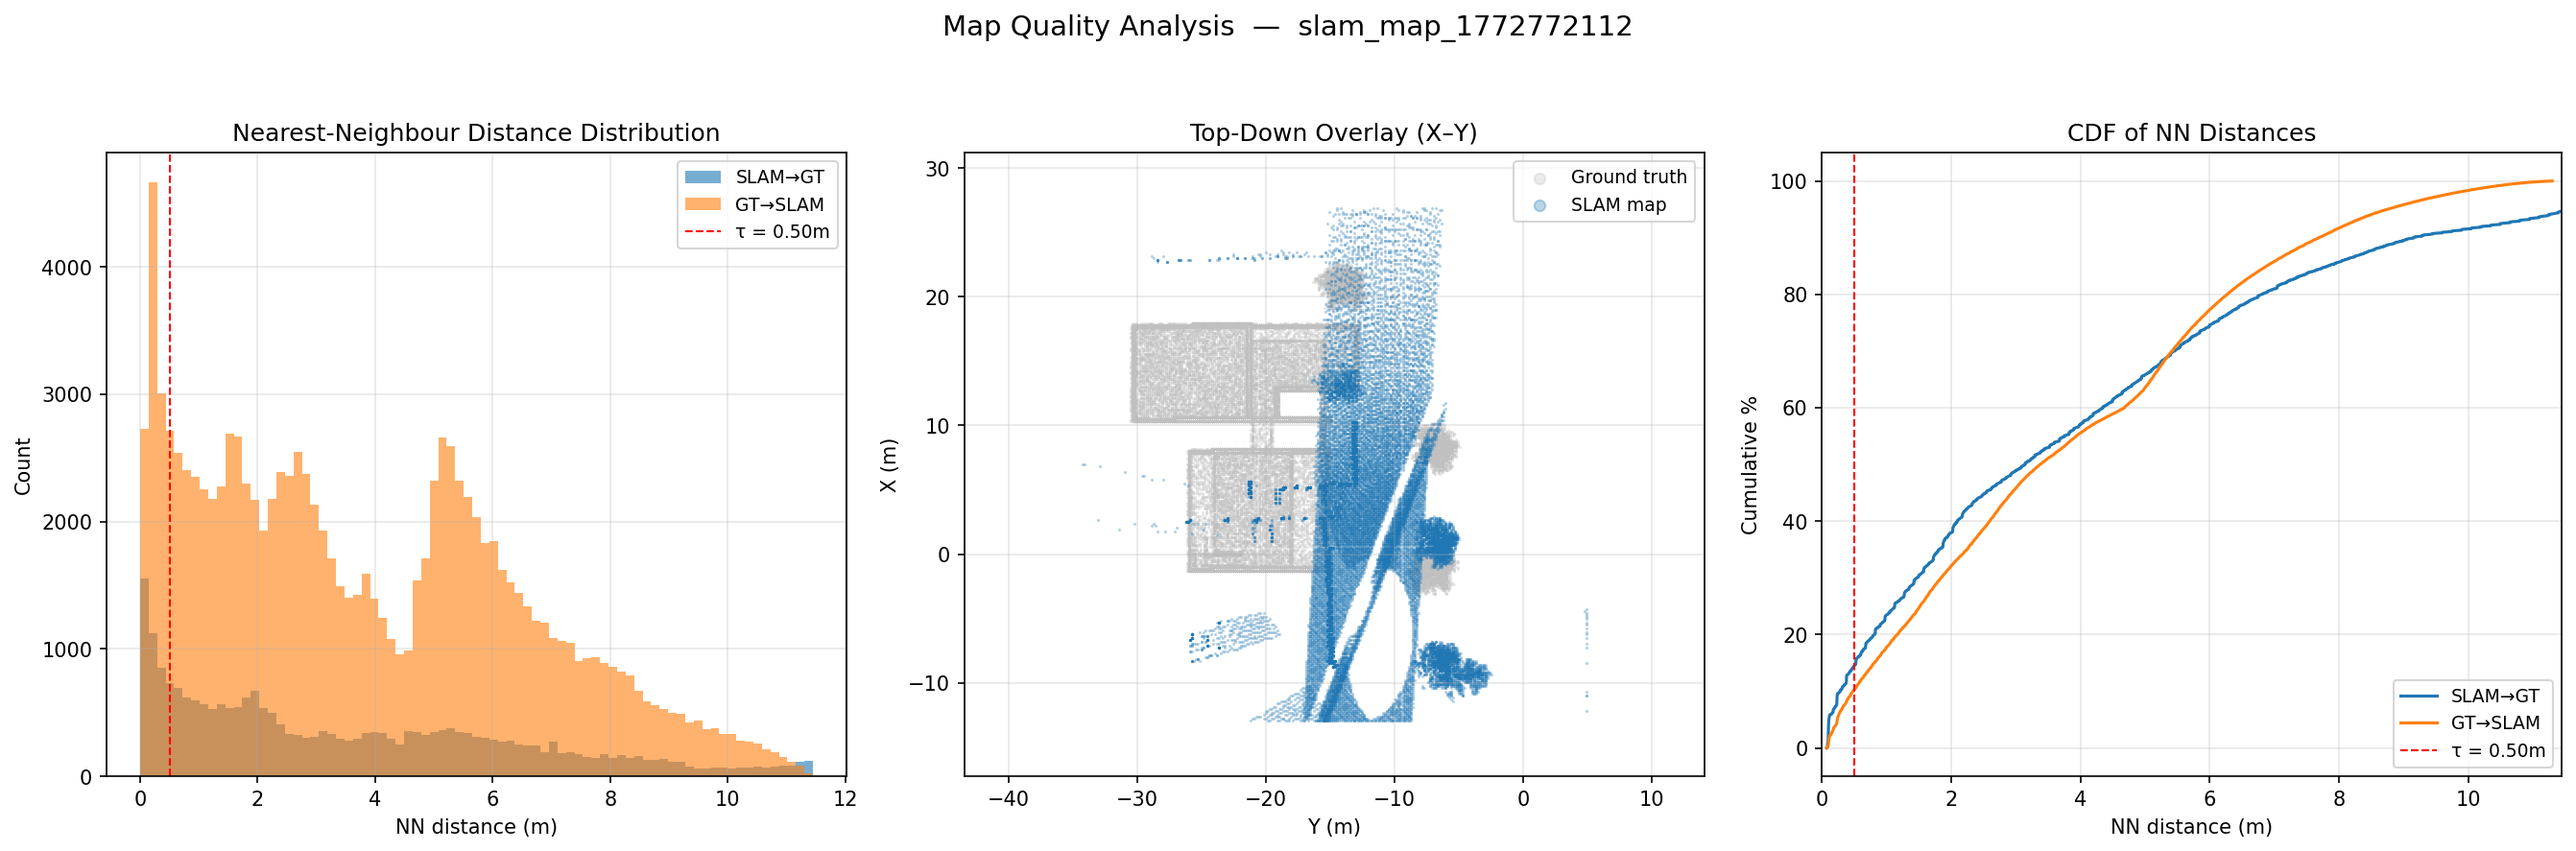
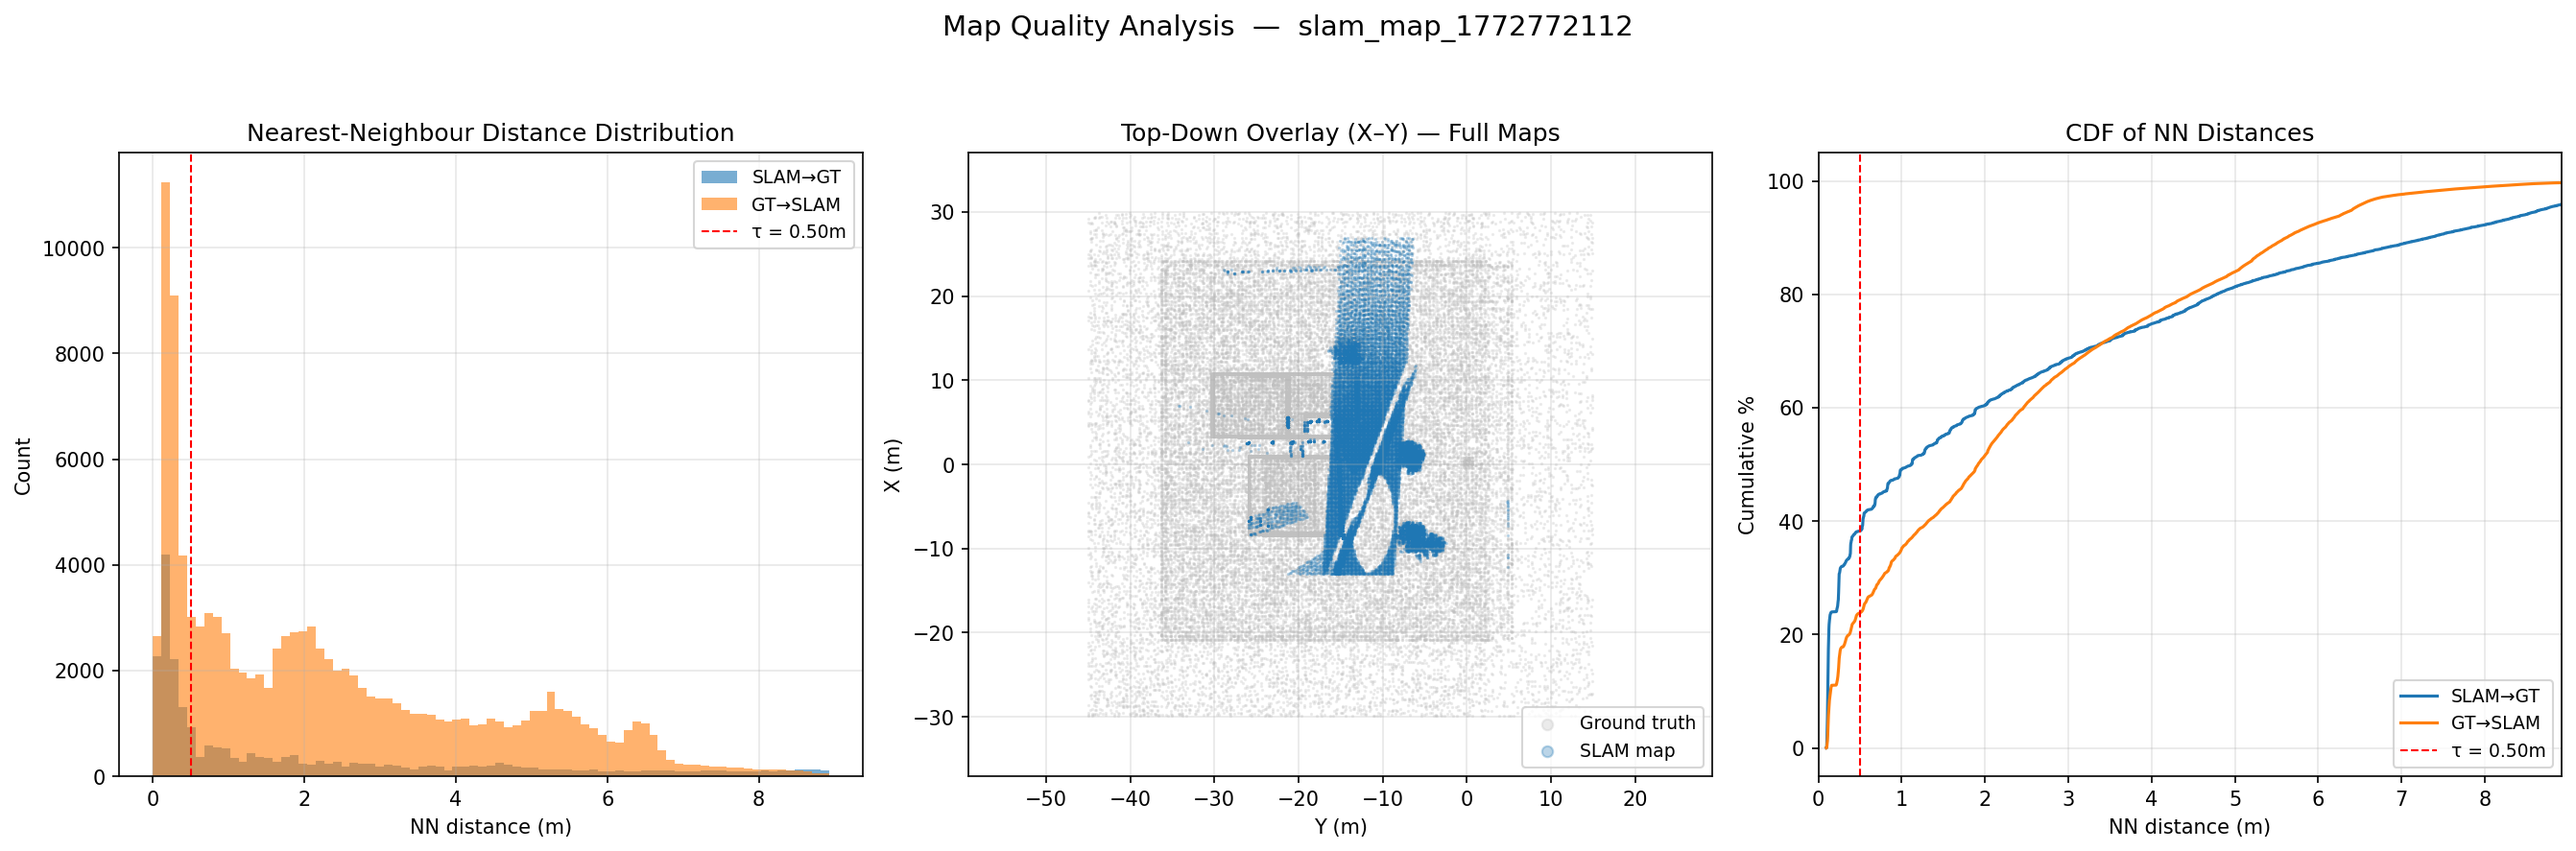
Fixed issue with comparing final mapping to ground truth

diff --git a/airsimTesting/mapAnalysis.py b/airsimTesting/mapAnalysis.py
@@ -81,6 +81,10 @@ OUT_DIR = None
 # Set True to skip matplotlib plots (text + CSV output only).
 NO_PLOT = False
 
+# Set True to open separate Open3D windows for GT and each SLAM map
+# with coordinate axes displayed, useful for diagnosing orientation issues.
+SHOW_INDIVIDUAL_MAPS = False
+
 
 # ══════════════════════════════════════════════════════════════════════════════
 # Helpers
@@ -235,14 +239,25 @@ def print_metrics(m: dict, label: str = "") -> None:
 # ══════════════════════════════════════════════════════════════════════════════
 
 def plot_single(m: dict, slam_pts: np.ndarray, gt_pts: np.ndarray,
-                label: str = "", save_path: str | None = None) -> None:
-    """Three-panel figure for a single SLAM-vs-GT comparison."""
+                label: str = "", save_path: str | None = None,
+                slam_pts_full: np.ndarray | None = None,
+                gt_pts_full: np.ndarray | None = None) -> None:
+    """Three-panel figure for a single SLAM-vs-GT comparison.
+
+    If *slam_pts_full* / *gt_pts_full* are provided they are used for
+    the top-down overlay so the viewer can see the full maps for spatial
+    orientation.  Metrics are still computed on the clipped clouds.
+    """
     import matplotlib
     matplotlib.use("TkAgg")
     import matplotlib.pyplot as plt
 
     d_s2g = m["_d_s2g"]
     d_g2s = m["_d_g2s"]
+
+    # Use the full clouds for display if available
+    slam_display = slam_pts_full if slam_pts_full is not None else slam_pts
+    gt_display   = gt_pts_full   if gt_pts_full   is not None else gt_pts
 
     fig, axes = plt.subplots(1, 3, figsize=(18, 6))
     fig.suptitle(f"Map Quality Analysis{f'  —  {label}' if label else ''}",
@@ -261,20 +276,20 @@ def plot_single(m: dict, slam_pts: np.ndarray, gt_pts: np.ndarray,
     ax.legend(fontsize=9)
     ax.grid(True, alpha=0.3)
 
-    # ── (b) Top-down XY overlay ───────────────────────────────────────
+    # ── (b) Top-down XY overlay (full maps for orientation) ───────────
     ax = axes[1]
     # Subsample for plotting speed
     max_draw = 50_000
-    if len(gt_pts) > max_draw:
-        idx = np.random.choice(len(gt_pts), max_draw, replace=False)
-        gt_draw = gt_pts[idx]
+    if len(gt_display) > max_draw:
+        idx = np.random.choice(len(gt_display), max_draw, replace=False)
+        gt_draw = gt_display[idx]
     else:
-        gt_draw = gt_pts
-    if len(slam_pts) > max_draw:
-        idx = np.random.choice(len(slam_pts), max_draw, replace=False)
-        sl_draw = slam_pts[idx]
+        gt_draw = gt_display
+    if len(slam_display) > max_draw:
+        idx = np.random.choice(len(slam_display), max_draw, replace=False)
+        sl_draw = slam_display[idx]
     else:
-        sl_draw = slam_pts
+        sl_draw = slam_display
 
     ax.scatter(gt_draw[:, 1], gt_draw[:, 0], c="#c0c0c0", s=0.3,
                alpha=0.3, rasterized=True, label="Ground truth")
@@ -282,7 +297,7 @@ def plot_single(m: dict, slam_pts: np.ndarray, gt_pts: np.ndarray,
                alpha=0.3, rasterized=True, label="SLAM map")
     ax.set_xlabel("Y (m)")
     ax.set_ylabel("X (m)")
-    ax.set_title("Top-Down Overlay (X–Y)")
+    ax.set_title("Top-Down Overlay (X–Y) — Full Maps")
     ax.set_aspect("equal", adjustable="datalim")
     ax.legend(fontsize=9, markerscale=10)
     ax.grid(True, alpha=0.3)
@@ -381,8 +396,14 @@ def plot_comparison(results: list[tuple[str, dict]],
 
 def plot_3d_overlay(slam_pts: np.ndarray, gt_pts: np.ndarray,
                     label: str = "",
-                    max_draw: int = 500_000) -> None:
+                    max_draw: int = 500_000,
+                    slam_pts_full: np.ndarray | None = None,
+                    gt_pts_full: np.ndarray | None = None) -> None:
     """Open an interactive Open3D window showing both clouds together.
+
+    If *slam_pts_full* / *gt_pts_full* are provided they are displayed
+    instead of the clipped clouds so the viewer can use the full maps
+    for spatial orientation.
 
     * Ground truth  — grey  (0.70, 0.70, 0.70)
     * SLAM map      — blue  (0.12, 0.47, 0.71)
@@ -391,18 +412,22 @@ def plot_3d_overlay(slam_pts: np.ndarray, gt_pts: np.ndarray,
     """
     import open3d as o3d
 
-    # Subsample if needed so the viewer stays responsive
-    if len(gt_pts) > max_draw:
-        idx = np.random.default_rng(0).choice(len(gt_pts), max_draw, replace=False)
-        gt_draw = gt_pts[idx]
-    else:
-        gt_draw = gt_pts
+    # Use full clouds for display when available
+    gt_src   = gt_pts_full   if gt_pts_full   is not None else gt_pts
+    slam_src = slam_pts_full if slam_pts_full is not None else slam_pts
 
-    if len(slam_pts) > max_draw:
-        idx = np.random.default_rng(1).choice(len(slam_pts), max_draw, replace=False)
-        sl_draw = slam_pts[idx]
+    # Subsample if needed so the viewer stays responsive
+    if len(gt_src) > max_draw:
+        idx = np.random.default_rng(0).choice(len(gt_src), max_draw, replace=False)
+        gt_draw = gt_src[idx]
     else:
-        sl_draw = slam_pts
+        gt_draw = gt_src
+
+    if len(slam_src) > max_draw:
+        idx = np.random.default_rng(1).choice(len(slam_src), max_draw, replace=False)
+        sl_draw = slam_src[idx]
+    else:
+        sl_draw = slam_src
 
     # Ground truth point cloud (grey)
     gt_pcd = o3d.geometry.PointCloud()
@@ -430,6 +455,51 @@ def plot_3d_overlay(slam_pts: np.ndarray, gt_pts: np.ndarray,
 
     o3d.visualization.draw_geometries(
         [gt_pcd, sl_pcd, bbox],
+        window_name=title,
+        width=1280, height=720,
+        point_show_normal=False,
+    )
+
+
+def plot_individual_map(pts: np.ndarray, title: str,
+                        color: list[float],
+                        axis_size: float | None = None) -> None:
+    """Open an Open3D window showing a single point cloud with a coordinate frame.
+
+    All points are displayed (no subsampling or bounding-box clipping)
+    so the full extent of the map is visible.
+
+    Parameters
+    ----------
+    pts : (N, 3) float
+        Point cloud to display.
+    title : str
+        Window title.
+    color : list[float]
+        RGB colour in [0, 1] for the point cloud.
+    axis_size : float or None
+        Length of the coordinate-frame axes.  *None* → auto (10 % of the
+        point-cloud diagonal).
+    """
+    import open3d as o3d
+
+    pcd = o3d.geometry.PointCloud()
+    pcd.points = o3d.utility.Vector3dVector(pts.astype(np.float64))
+    pcd.paint_uniform_color(color)
+
+    # Coordinate frame at the origin
+    if axis_size is None:
+        diag = np.linalg.norm(pts.max(axis=0) - pts.min(axis=0))
+        axis_size = max(diag * 0.10, 1.0)
+    frame = o3d.geometry.TriangleMesh.create_coordinate_frame(
+        size=axis_size, origin=[0.0, 0.0, 0.0])
+
+    print(f"  [{title}] Displaying {len(pts):,} points  "
+          f"(axis size = {axis_size:.1f} m)")
+    print(f"  Close the window to continue.")
+
+    o3d.visualization.draw_geometries(
+        [pcd, frame],
         window_name=title,
         width=1280, height=720,
         point_show_normal=False,
@@ -515,16 +585,27 @@ def main():
         print_metrics(m, label=label)
         results.append((label, m))
 
-        # Per-map plot
+        # Per-map plot (full maps shown for spatial orientation)
         if not no_plot:
             out_dir = out or str(Path(slam_path).parent)
             os.makedirs(out_dir, exist_ok=True)
             fig_path = os.path.join(out_dir, f"map_analysis_{label}.png")
-            plot_single(m, slam_pts, gt_pts, label=label, save_path=fig_path)
+            plot_single(m, slam_pts, gt_pts, label=label, save_path=fig_path,
+                        slam_pts_full=slam_pts_raw, gt_pts_full=gt_pts_raw)
 
         # 3-D overlay so you can visually verify alignment
         if not no_plot:
-            plot_3d_overlay(slam_pts, gt_pts, label=label)
+            plot_3d_overlay(slam_pts, gt_pts, label=label,
+                            slam_pts_full=slam_pts_raw, gt_pts_full=gt_pts_raw)
+
+        # Individual windows with coordinate axes for orientation diagnosis
+        if SHOW_INDIVIDUAL_MAPS:
+            plot_individual_map(gt_pts_raw,
+                                title=f"Ground Truth  [{label}]",
+                                color=[0.70, 0.70, 0.70])
+            plot_individual_map(slam_pts_raw,
+                                title=f"SLAM Map  [{label}]",
+                                color=[0.12, 0.47, 0.71])
 
     # ── Multi-map comparison ──────────────────────────────────────────
     if len(results) > 1:

diff --git a/airsimTesting/exploration.py b/airsimTesting/exploration.py
@@ -2092,7 +2092,7 @@ SAVE_DIR = os.path.join(os.path.dirname(__file__), "flight_recordings")
 REPLAY_DIR      = "flight_recordings"            # e.g. "flight_recordings/flight_1771909992"
 #REPLAY_DIR      = ""  
 # ── Exploration parameters (shared by both modes) ────────────────────────
-EXPLORE_BOUNDS  = (-13, 27, -35, 5, -14, 0)   # (xmin,xmax,ymin,ymax,zmin,zmax) NED
+EXPLORE_BOUNDS  = (-13, 27, -35, 5, -14, 0.15)   # (xmin,xmax,ymin,ymax,zmin,zmax) NED
 TAKEOFF_HEIGHT  = EXPLORE_BOUNDS[4] -5         
 VELOCITY        = 3             # m/s (live mode only)
 SCAN_HZ         = 1 / 1.5      # scans per second (live mode only)
@@ -2291,29 +2291,17 @@ def run_replay(recording_dir: str):
     pipeline.get_corrected_map_points()
     pipeline.print_summary()
 
-    # Save the final SLAM map for later analysis
+    # Save the final SLAM map directly from the viewer's shared-memory
+    # buffer — this is exactly what was displayed, avoiding any GTSAM
+    # recomposition artefacts.
     map_out_dir = os.path.join(os.path.dirname(__file__), "savedMaps",
                                f"slam_map_{int(time.time())}")
-    os.makedirs(map_out_dir, exist_ok=True)
-    all_pts = pipeline.get_map_points()
-    # Clip to exploration bounds so only the mapped voxels inside the
-    # region of interest are saved (excludes misregistered outliers).
-    bx0, bx1, by0, by1, bz0, bz1 = EXPLORE_BOUNDS
-    mask = ((all_pts[:, 0] >= bx0) & (all_pts[:, 0] <= bx1) &
-            (all_pts[:, 1] >= by0) & (all_pts[:, 1] <= by1) &
-            (all_pts[:, 2] >= bz0) & (all_pts[:, 2] <= bz1))
-    final_pts = all_pts[mask]
-    print(f"  Clipped map: {len(final_pts):,} / {len(all_pts):,} points inside bounds")
-    np.savez(
-        os.path.join(map_out_dir, "slam_map.npz"),
-        points=final_pts.astype(np.float32),
+    pipeline._viewer.export_map(
+        map_out_dir,
         bounds=np.array(EXPLORE_BOUNDS, dtype=np.float64),
-        resolution=np.array(PLANNER_RES),
-        timestamp=np.array(time.time()),
-        source=np.array("replay"),
+        resolution=PLANNER_RES,
+        source="replay",
     )
-    print(f"  SLAM map saved to {map_out_dir}/slam_map.npz "
-          f"({len(final_pts):,} points)")
 
     print("\n  Viewer is still open — close the Open3D window or press Enter to exit.")
     try:
@@ -2589,29 +2577,17 @@ def run_live():
 
     live.pipeline.get_corrected_map_points()
 
-    # Save the final SLAM map for later analysis
+    # Save the final SLAM map directly from the viewer's shared-memory
+    # buffer — this is exactly what was displayed, avoiding any GTSAM
+    # recomposition artefacts.
     map_out_dir = os.path.join(os.path.dirname(__file__), "savedMaps",
                                f"slam_map_{int(time.time())}")
-    os.makedirs(map_out_dir, exist_ok=True)
-    all_pts = live.pipeline.get_map_points()
-    # Clip to exploration bounds so only the mapped voxels inside the
-    # region of interest are saved (excludes misregistered outliers).
-    bx0, bx1, by0, by1, bz0, bz1 = EXPLORE_BOUNDS
-    mask = ((all_pts[:, 0] >= bx0) & (all_pts[:, 0] <= bx1) &
-            (all_pts[:, 1] >= by0) & (all_pts[:, 1] <= by1) &
-            (all_pts[:, 2] >= bz0) & (all_pts[:, 2] <= bz1))
-    final_pts = all_pts[mask]
-    print(f"  Clipped map: {len(final_pts):,} / {len(all_pts):,} points inside bounds")
-    np.savez(
-        os.path.join(map_out_dir, "slam_map.npz"),
-        points=final_pts.astype(np.float32),
+    live.pipeline._viewer.export_map(
+        map_out_dir,
         bounds=np.array(EXPLORE_BOUNDS, dtype=np.float64),
-        resolution=np.array(PLANNER_RES),
-        timestamp=np.array(time.time()),
-        source=np.array("live"),
+        resolution=PLANNER_RES,
+        source="live",
     )
-    print(f"  SLAM map saved to {map_out_dir}/slam_map.npz "
-          f"({len(final_pts):,} points)")
 
     # Save the quality plot
     if out_dir:

diff --git a/airsimTesting/sensorFeed.py b/airsimTesting/sensorFeed.py
@@ -340,6 +340,64 @@ class Viewer3D:
                         self._candidate_buf[:nc] = candidate_points[:nc].astype(self._dtype)
         self._update_event.set()
 
+    def get_displayed_points(self) -> np.ndarray:
+        """Return a copy of the points currently in the viewer's shared-memory buffer.
+
+        This captures *exactly* the 3-D map that the viewer is displaying,
+        bypassing any GTSAM recomposition or other post-processing.  Only
+        non-zero rows (actual points) are returned.
+        """
+        if self._buf is None:
+            return np.empty((0, 3), dtype=np.float32)
+        with self._lock:
+            pts = self._buf.copy()
+        mask = np.any(pts != 0, axis=1)
+        return pts[mask].astype(np.float32)
+
+    def export_map(self, path: str, *,
+                   bounds: np.ndarray | None = None,
+                   resolution: float | None = None,
+                   source: str = "viewer") -> str:
+        """Save the currently displayed 3-D map to a ``.npz`` file.
+
+        Parameters
+        ----------
+        path : str
+            Output file path (should end in ``.npz``) **or** a directory.
+            If a directory, the file is named ``slam_map.npz`` inside it.
+        bounds : ndarray or None
+            Optional (6,) exploration bounds to store alongside the points.
+            Points are **not** clipped — all displayed points are saved.
+        resolution : float or None
+            Optional voxel resolution metadata.
+        source : str
+            Tag stored in the file for provenance.
+
+        Returns
+        -------
+        str  — the path the file was written to.
+        """
+        import os, time as _time
+        if os.path.isdir(path) or not path.endswith(".npz"):
+            os.makedirs(path, exist_ok=True)
+            path = os.path.join(path, "slam_map.npz")
+        else:
+            os.makedirs(os.path.dirname(path) or ".", exist_ok=True)
+
+        pts = self.get_displayed_points()
+        kw = dict(
+            points=pts,
+            timestamp=np.array(_time.time()),
+            source=np.array(source),
+        )
+        if bounds is not None:
+            kw["bounds"] = np.asarray(bounds, dtype=np.float64)
+        if resolution is not None:
+            kw["resolution"] = np.array(resolution)
+        np.savez(path, **kw)
+        print(f"  Viewer export: {len(pts):,} points saved to {path}")
+        return path
+
     def stop(self):
         self._stop_event.set()
         if self._proc is not None:

diff --git a/airsimTesting/displayGroundTruth.py b/airsimTesting/displayGroundTruth.py
@@ -124,7 +124,7 @@ def read_binvox(path, center=np.zeros(3)):
 
 # ── Configuration ────────────────────────────────────────────────────────────
 SAVE_DIR = "/home/koghalai/MAE252/airsimTesting/flight_recordings/"
-CENTER   = airsim.Vector3r(10, -15, 0)   # centre of the voxel grid
+CENTER   = airsim.Vector3r(0, -15, 0)   # centre of the voxel grid
 X_SIZE   = 60                         # metres
 Y_SIZE   = 60
 Z_SIZE   = 20
